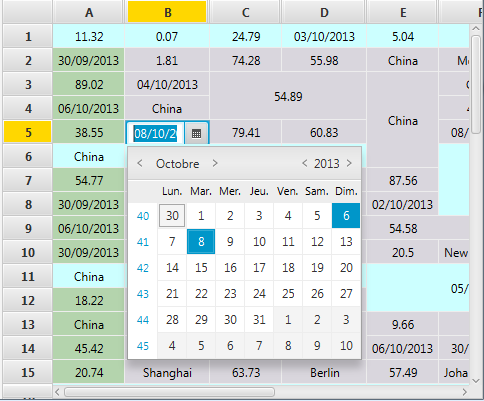
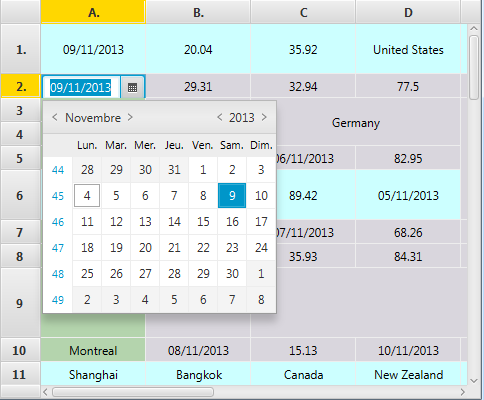
JavaDoc updated. Also removed an old capture of SpreadsheetView, don't know what was its purpose.

diff --git a/src/main/java/org/controlsfx/control/spreadsheet/SpreadsheetView.java b/src/main/java/org/controlsfx/control/spreadsheet/SpreadsheetView.java
@@ -92,9 +92,13 @@ import javafx.util.Duration;
  * <br/>
  *  
  * <h3>Fixing Rows and Columns </h3>
- * You can fix some rows and some columns by right-clicking on their header. A context menu will appear if it's possible to fix them.
- * The label will then be in italic to confirm that the fixing has been done properly.
- * Keep in mind that only columns without any spanning cells, and only rows without row-spanning cells can be fixed.
+ * You can fix some rows and some columns by right-clicking on their header (if it has a dot, then it means it can be
+ * fixed). A context menu will appear if it's possible to fix them.
+ * The label will then be in italic and the dot will be replaced by a colon to confirm that the fixing has been done properly.
+ * Keep in mind that only columns without any spanning cells can be fixed (whether or not the previous columns are fixed).
+ * 
+ * And that and only rows without row-spanning cells can be fixed. For now, only the first rows can be fixed together. It means for example
+ * that fixing the fifth row implies that the four preceding are fixable and fixed. 
  * <br/>
  * You have also the possibility to fix them manually by adding and removing items from {@link #getFixedRows()} and {@link #getFixedColumns()}.
  * But you are strongly advised to check if it's possible to do so with {@link SpreadsheetColumn#isColumnFixable()} for the fixed columns and with

diff --git a/src/main/java/org/controlsfx/control/spreadsheet/GridBase.java b/src/main/java/org/controlsfx/control/spreadsheet/GridBase.java
@@ -71,11 +71,20 @@ public class GridBase implements Grid {
 
     /**
      * Creates a grid with a fixed number of rows and columns.
+     * @param rowCount
+     * @param columnCount
      */
     public GridBase(int rowCount, int columnCount) {
         this(rowCount, columnCount,FXCollections.<ObservableList<SpreadsheetCell>> emptyObservableList(), new HashMap<Integer,Double>());
     }
 
+    /**
+     * Creates a grid with a fixed number of rows and columns. 
+     * Some height are specified int the Map.
+     * @param rowCount
+     * @param columnCount
+     * @param rowHeight
+     */
     public GridBase(int rowCount, int columnCount,  Map<Integer,Double> rowHeight) {
         this(rowCount, columnCount,FXCollections.<ObservableList<SpreadsheetCell>> emptyObservableList(), rowHeight);
     }

diff --git a/src/main/java/org/controlsfx/control/spreadsheet/Grid.java b/src/main/java/org/controlsfx/control/spreadsheet/Grid.java
@@ -26,6 +26,8 @@
  */
 package org.controlsfx.control.spreadsheet;
 
+import java.util.Map;
+
 import javafx.collections.ObservableList;
 
 import org.controlsfx.control.spreadsheet.SpreadsheetView.SpanType;
@@ -93,9 +95,11 @@ public interface Grid {
     public SpanType getSpanType(final SpreadsheetView spv, final int row, final int column);
     
     /**
-     * Return the height of a row.
+     * Return the height of a row. 
+     * It will first look into the {@link Map} provided at the
+     * initialization. If nothing's found, default height will be taken.
      * @param row
-     * @return
+     * @return the height of a row.
      */
     public double getRowHeight(int row);
 }

diff --git a/src/main/java/org/controlsfx/control/spreadsheet/SpreadsheetColumn.java b/src/main/java/org/controlsfx/control/spreadsheet/SpreadsheetColumn.java
@@ -52,8 +52,9 @@ import javafx.scene.control.TableColumn;
  * if it is possible with {@link #isColumnFixable()} before calling {@link #setFixed(boolean)}.
  * Take a look at the {@link SpreadsheetView} description to understand the fixing constraints.
  * 
- * <p>If the column can be fixed, a {@link ContextMenu} will appear if the user 
- * right-clicks on the header. If not, nothing will appear and the user will not 
+ * <p>If the column can be fixed, a dot is displayed in the header and
+ *  a {@link ContextMenu} will appear if the user 
+ * right-clicks on it. If not, nothing will appear and the user will not 
  * have the possibility to fix it.
  * 
  * <h3>Screenshot</h3>

diff --git a/src/main/java/impl/org/controlsfx/spreadsheet/GridViewSkin.java b/src/main/java/impl/org/controlsfx/spreadsheet/GridViewSkin.java
@@ -488,7 +488,6 @@ public class GridViewSkin extends TableViewSkin<ObservableList<SpreadsheetCell>>
         int rows = maxRows == -1 ? items.size() : Math.min(items.size(), maxRows);
         double maxWidth = 0;
         boolean datePresent = false;
-        boolean listPresent = false;
         for (int row = 0; row < rows; row++) {
             cell.updateTableColumn(col);
             cell.updateTableView(handle.getGridView());
